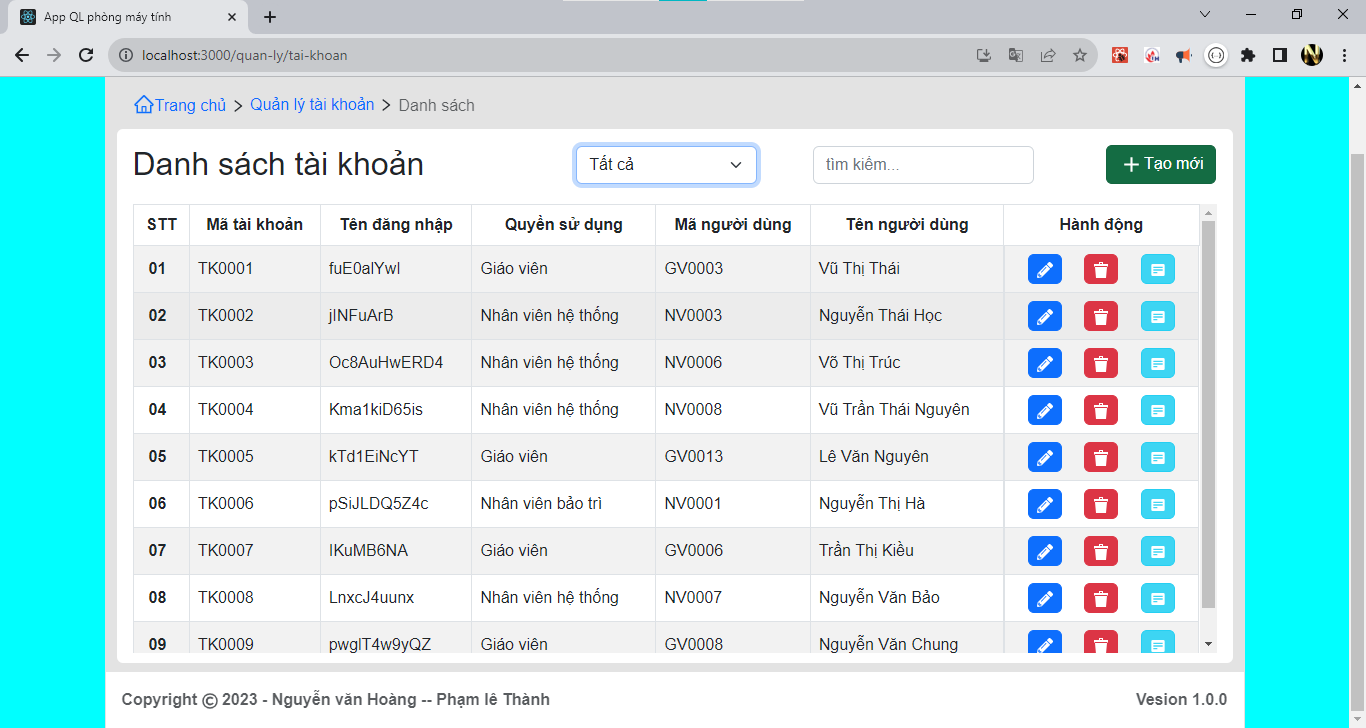
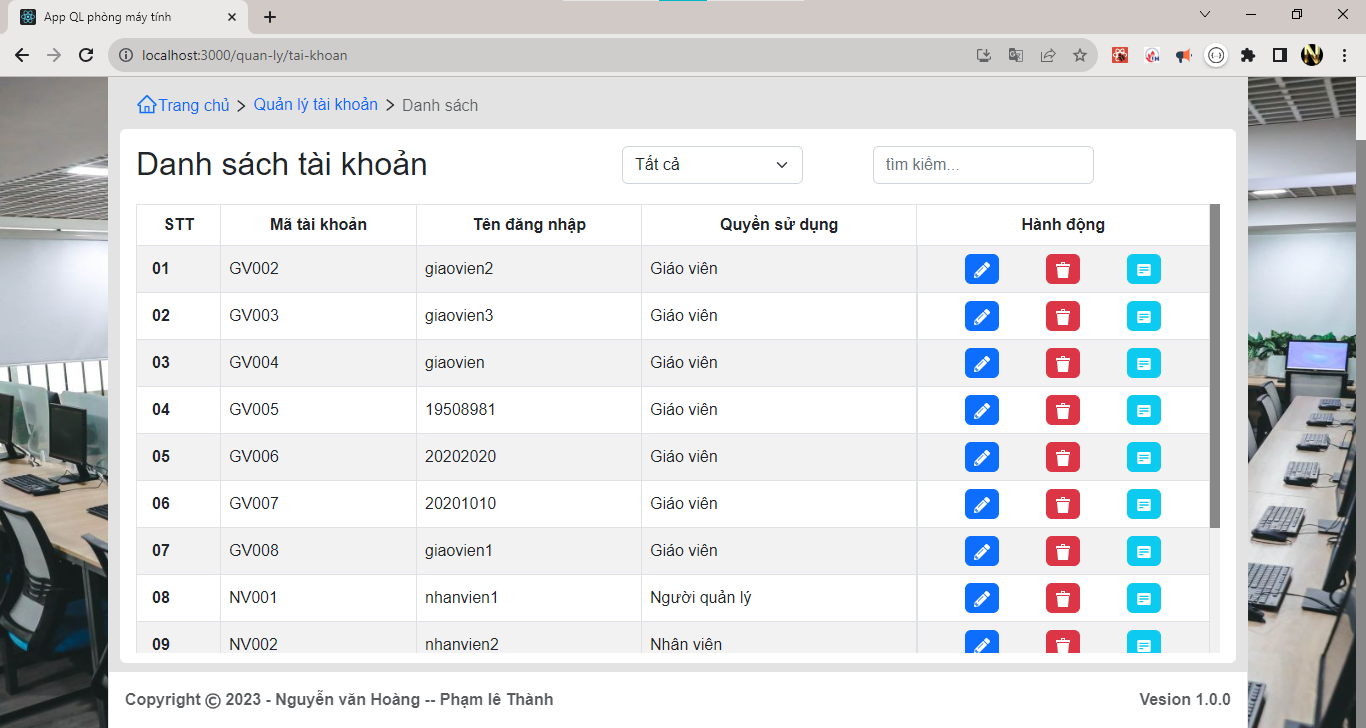
QlTaiKhoan: update data -> api

diff --git a/src/pages/PageQuanLy/PageQLTaiKhoan.jsx b/src/pages/PageQuanLy/PageQLTaiKhoan.jsx
@@ -19,13 +19,18 @@ import {
 export default function PageQLTaiKhoan() {
   const dispatch = useDispatch();
 
-  const { arrTaiKhoanSearch, arrQuyen } = useSelector(
+  const { arrTaiKhoan, arrTaiKhoanSearch, arrQuyen } = useSelector(
     (state) => state.taiKhoanReducer
   );
 
   useEffect(() => {
-    dispatch(getAllTaiKhoanApi);
-    dispatch(getAllQuyenSDApi);
+    if (arrTaiKhoan.length === 0) {
+      dispatch(getAllTaiKhoanApi);
+    }
+
+    if (arrQuyen.length === 0) {
+      dispatch(getAllQuyenSDApi);
+    }
   }, []);
 
   //handle
@@ -39,23 +44,17 @@ export default function PageQLTaiKhoan() {
   //render
   const renderDataTaiKhoan = () => {
     return arrTaiKhoanSearch?.map((item, index) => {
-      let strNameQuyen = '';
-      arrQuyen.forEach((itemQuyen) => {
-        if (itemQuyen.idCode.includes(item.quyenId)) {
-          strNameQuyen = itemQuyen.mota+"";
-        }
-      })
-
       return (
         <tr key={index}>
           <td scope="row" style={{ fontWeight: 600, padding: "0 15px" }}>
             {index < 9 ? `0${index + 1}` : index + 1}
           </td>
-          <td>{item?.idCode}</td>
-          <td>{item.userName}</td>
-          <td>{strNameQuyen}</td>
+          <td>{item?.maTK}</td>
+          <td>{item.tenDangNhap}</td>
+          <td>{item.quyen.tenQuyen}</td>
+          {/* <td>{strNameQuyen}</td>
           <td>{item.mota.idCode}</td>
-          <td>{item.mota.name}</td>
+          <td>{item.mota.name}</td> */}
 
           <td style={{ display: "flex", justifyContent: "space-evenly" }}>
             <NavLink
@@ -83,17 +82,15 @@ export default function PageQLTaiKhoan() {
             >
               <ImBin2 color="white" size={16} />
             </button>
-            <NavLink
-              // to={`../quan-ly/phong`}
-              onClick={() => {
-                alert(`Chi tiết -- ${item.id} -- dang cập nhật!`);
-              }}
+            <button
               type="button"
               className="btn btn-info mx-2 px-2"
               style={{ padding: "2px" }}
+              data-bs-toggle="modal"
+              data-bs-target="#modalDetail"
             >
               <BiSolidDetail color="white" size={16} />
-            </NavLink>
+            </button>
           </td>
         </tr>
       );
@@ -104,13 +101,13 @@ export default function PageQLTaiKhoan() {
     return (
       <div className="col-2 mx-2">
         <select className="form-select " onChange={handleChangeSelectQuyen}>
-          <option selected value="all">
+          <option selected value="-1">
             Tất cả
           </option>
           {arrQuyen.map((item, index) => {
             return (
-              <option value={item.idCode} key={index}>
-                {item.mota}
+              <option value={item.maQuyen} key={index}>
+                {item.tenQuyen}
               </option>
             );
           })}
@@ -125,6 +122,50 @@ export default function PageQLTaiKhoan() {
 
   return (
     <div className="container " style={{ height: "100vh" }}>
+      {/*  */}
+
+      {/* Modal */}
+      <div
+        className="modal fade "
+        id="modalDetail"
+        tabIndex={-1}
+        role="dialog"
+        aria-labelledby="modalTitleId"
+        aria-hidden="true"
+      >
+        <div className="modal-dialog modal-dialog-centered" role="document">
+          <div className="modal-content">
+            <div className="modal-header">
+              <h5 className="modal-title" id="modalTitleId">
+                Modal title
+              </h5>
+              <button
+                type="button"
+                className="btn-close"
+                data-bs-dismiss="modal"
+                aria-label="Close"
+              />
+            </div>
+            <div className="modal-body">
+              <div className="container-fluid">Add rows here</div>
+            </div>
+            <div className="modal-footer">
+              <button
+                type="button"
+                className="btn btn-secondary"
+                data-bs-dismiss="modal"
+              >
+                Close
+              </button>
+              <button type="button" className="btn btn-primary">
+                Save
+              </button>
+            </div>
+          </div>
+        </div>
+      </div>
+
+      {/*  */}
       <div
         className="d-flex flex-column justify-content-between "
         style={{ height: "100vh" }}
@@ -163,8 +204,7 @@ export default function PageQLTaiKhoan() {
                 />
               </div>
 
-              <div style={{ display: "flex", alignItems: "center" }}>
-                {/* Btn them */}
+              {/* <div style={{ display: "flex", alignItems: "center" }}>
                 <NavLink
                   // to="/quan-ly/tai-khoan/add"
                   onClick={() => {
@@ -176,7 +216,8 @@ export default function PageQLTaiKhoan() {
                   <MdAdd color="white" size={25} />
                   Tạo mới
                 </NavLink>
-              </div>
+              </div> */}
+              <div className="px-3 mx-3"></div>
             </div>
 
             {/* Bảng danh sách data */}
@@ -185,11 +226,9 @@ export default function PageQLTaiKhoan() {
                 <thead>
                   <tr>
                     <th>STT</th>
-                    <th style={{ minWidth: "90px" }}>Mã tài khoản</th>
+                    <th style={{ minWidth: "110px" }}>Mã tài khoản</th>
                     <th style={{ minWidth: "125px" }}>Tên đăng nhập</th>
                     <th style={{ minWidth: "160px" }}>Quyền sử dụng</th>
-                    <th style={{ minWidth: "100px" }}>Mã người dùng</th>
-                    <th style={{ minWidth: "110px" }}>Tên người dùng</th>
                     <th style={{ minWidth: "170px" }}>Hành động</th>
                   </tr>
                 </thead>

diff --git a/src/redux/reducers/taiKhoanReducer.jsx b/src/redux/reducers/taiKhoanReducer.jsx
@@ -2,28 +2,35 @@
 
 import { createSlice } from "@reduxjs/toolkit";
 import { http } from "../../util/config";
-import Database from "../../util/database/Database";
 
 // function
 const dataSearch = (arrData, valSearch, valSelect) => {
   // TH theo search
   let search = valSearch.toLowerCase();
-
-  let arrUpdate = arrData.filter((item) => {
-    return (
-      item.idCode.toLowerCase().includes(search) ||
-      item.userName.toLowerCase().includes(search) ||
-      item.mota.idCode.toLowerCase().includes(search) ||
-      item.mota.name.toLowerCase().includes(search)
-    );
-  });
-
-  //TH theo Select
-  if (valSelect !== "all") {
-    arrUpdate = arrUpdate.filter((item) => {
-      return item.quyenId.includes(valSelect);
+  let arrUpdate = [];
+  if (valSelect != -1) {
+    arrUpdate = arrData.filter((item) => {
+      return (
+        (item.maTK.toLowerCase().includes(search) ||
+          item.tenDangNhap.toLowerCase().includes(search)) &&
+        item.quyen.maQuyen == valSelect
+      );
+    });
+  } else {
+    arrUpdate = arrData.filter((item) => {
+      return (
+        item.maTK.toLowerCase().includes(search) ||
+        item.tenDangNhap.toLowerCase().includes(search)
+      );
     });
   }
+
+  //TH theo Select
+  // if (valSelect !== "all") {
+  //   arrUpdate = arrUpdate.filter((item) => {
+  //     return item.quyenId.includes(valSelect);
+  //   });
+  // }
 
   return [...arrUpdate];
 };
@@ -127,9 +134,8 @@ export const getAllTaiKhoanApi = async (dispatch) => {
  */
 export const getAllQuyenSDApi = async (dispatch) => {
   try {
-    // const result = await http.get("/Quyen...");
-    // dispatch(serArrQuyenAction(result.data.content));
-    dispatch(serArrQuyenAction(Database.dataQuyen));
+    const result = await http.get("/DSQuyen");
+    dispatch(serArrQuyenAction(result.data));
   } catch (error) {
     console.log(
       "🚀 ~ file: taiKhoanReducer.jsx:38 ~ getAllTaiKhoanApi ~ error:",

diff --git a/public/texthtml.html b/public/texthtml.html
@@ -35,14 +35,14 @@
 
       <!-- Modal -->
       <div
-        class="modal fade modal-dialog modal-dialog-centered"
+        class="modal fade"
         id="modalId"
         tabindex="-1"
         role="dialog"
         aria-labelledby="modalTitleId"
         aria-hidden="true"
       >
-        <div class="modal-dialog" role="document">
+        <div class=" modal-dialog modal-dialog-centered" role="document">
           <div class="modal-content">
             <div class="modal-header">
               <h5 class="modal-title" id="modalTitleId">Modal title</h5>
